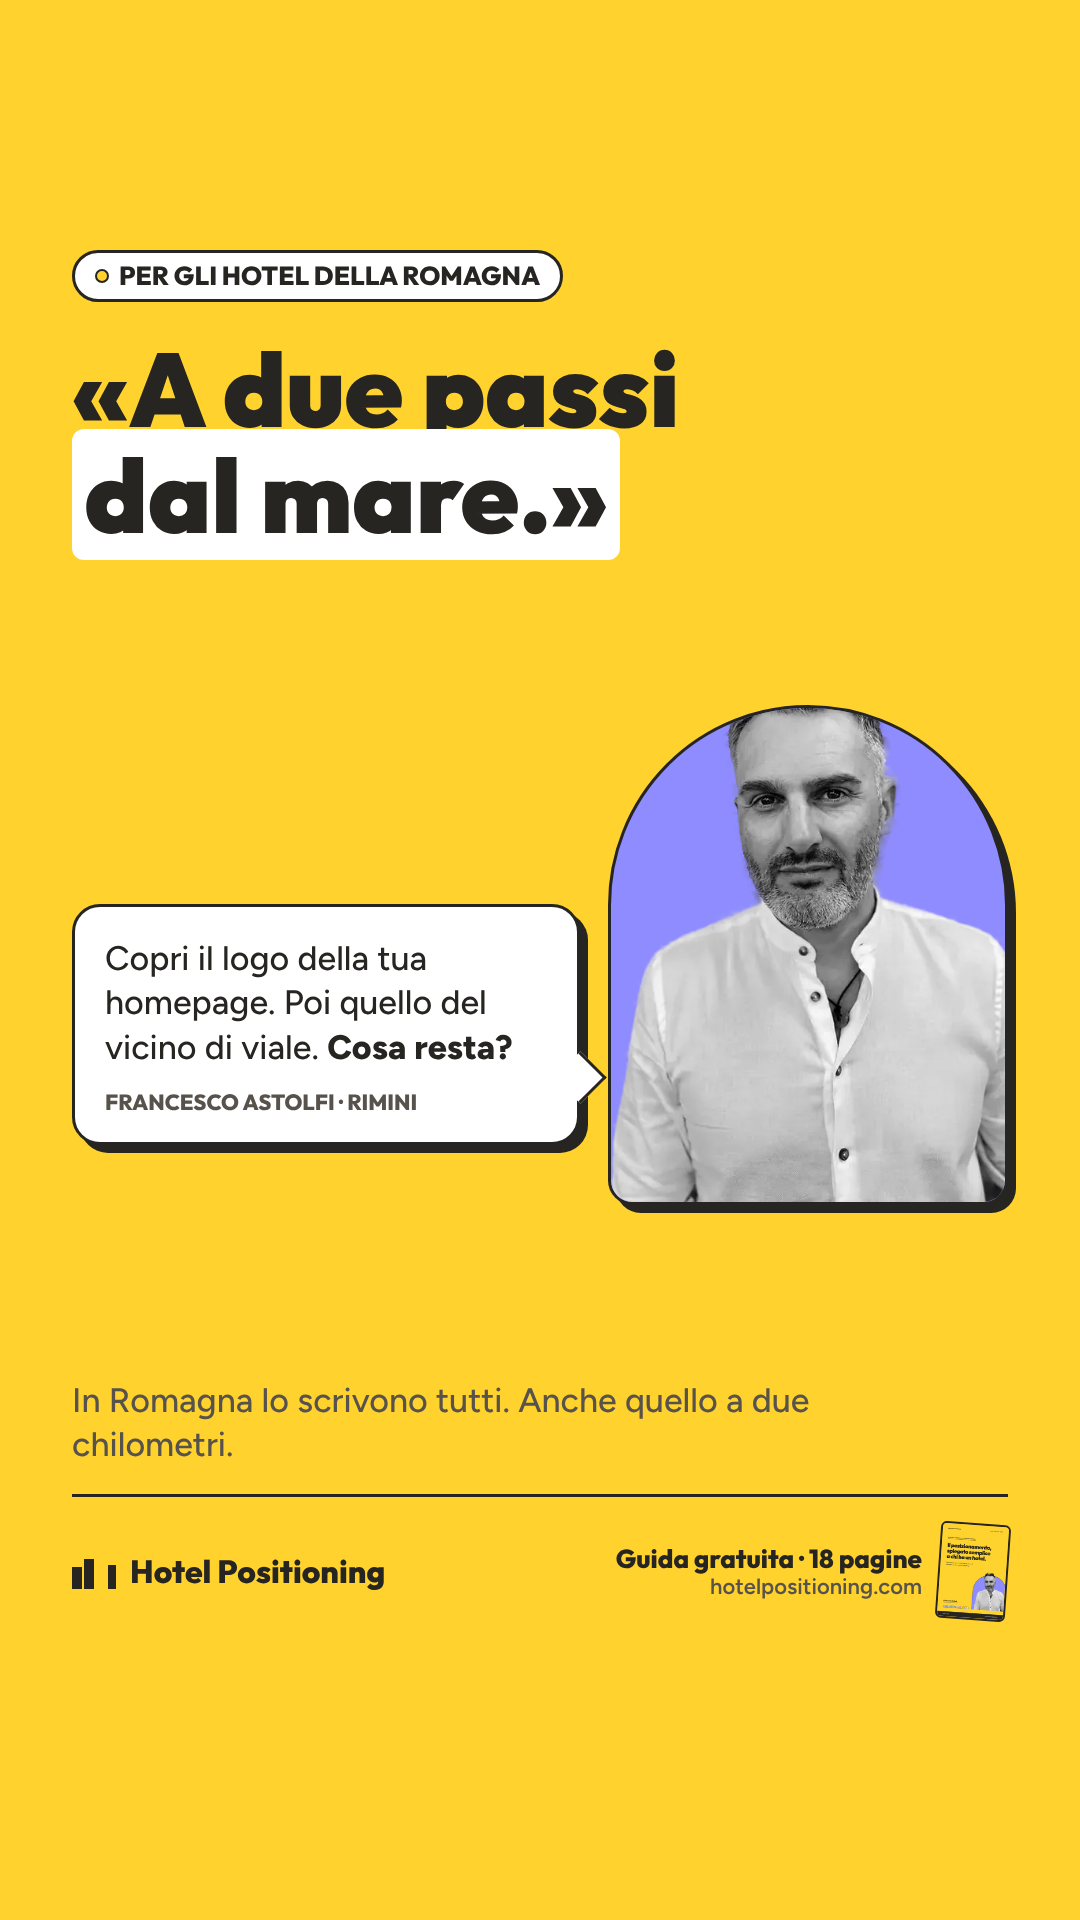
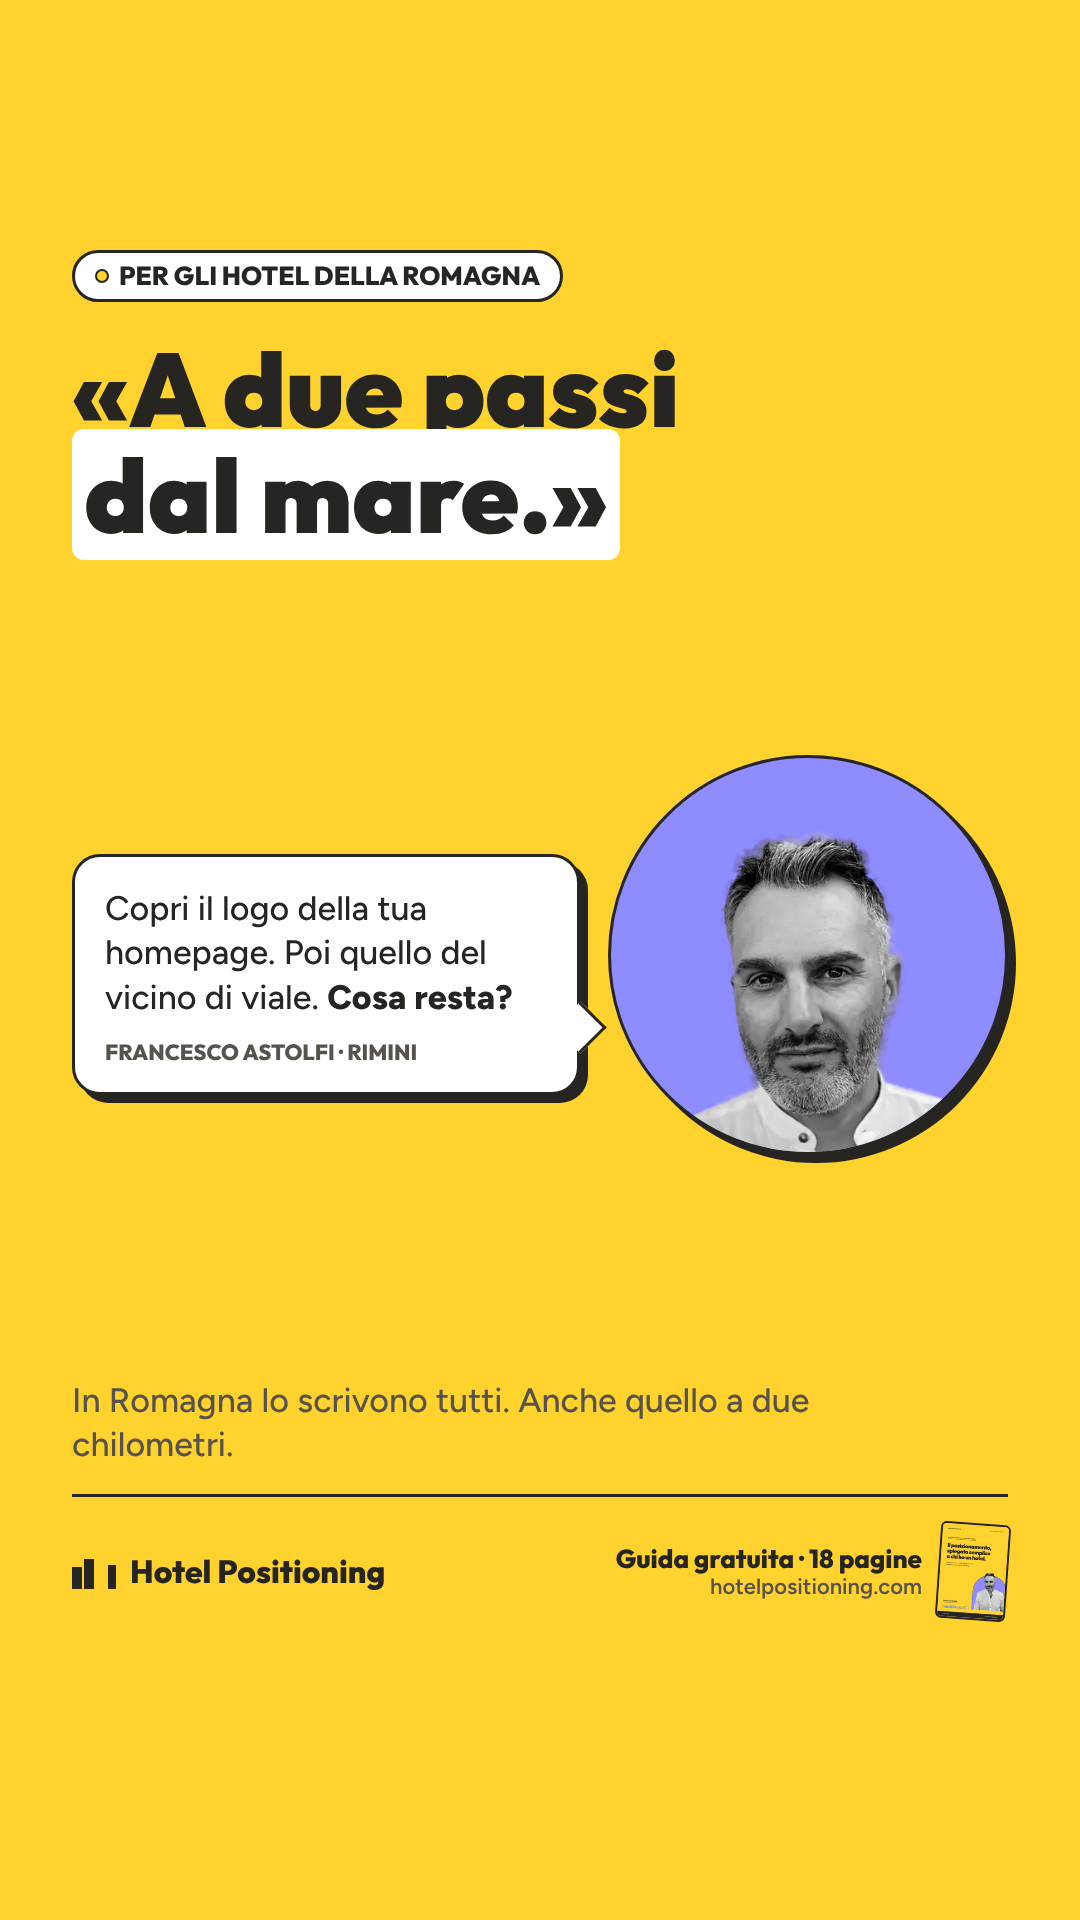
Annunci Romagna: foto di Francesco inquadrata meglio (cerchio con spazio sopra la testa, arco di R8 senza tagli)
Claude-Session: https://claude.ai/code/session_0143iuYkSKfNX3NX9JmduveJ

Changed region(s): [[0.0611, 0.3438, 0.9472, 0.6562]]

diff --git a/materiali/ads-guida-romagna/genera_ads.py b/materiali/ads-guida-romagna/genera_ads.py
@@ -107,13 +107,13 @@ h1 mark{background:#ffd22e;color:#262521;border-radius:12px;padding:0 .12em;box-
 .note{margin-top:18px;font:italic 500 21px Figtree;color:#6b665d}
 .fr{display:grid;grid-template-columns:420px 1fr;gap:30px;align-items:end}
 .arch{height:520px;border:3px solid INK;border-radius:210px 210px 26px 26px;background:#8f8cff;overflow:hidden;position:relative;box-shadow:8px 8px 0 INK}
-.arch img{position:absolute;bottom:0;left:50%;width:112%;transform:translateX(-50%)}
+.arch img{position:absolute;top:6%;left:50%;width:118%;transform:translateX(-50%)}
 .pr2{display:grid;grid-template-columns:1fr 400px;gap:28px;align-items:end}
 .bub{position:relative;background:#fff;border:3px solid INK;border-radius:28px;padding:30px 30px 26px;box-shadow:8px 8px 0 INK;margin-bottom:60px;color:#262521}
 .bub:after{content:"";position:absolute;right:-22px;bottom:46px;width:34px;height:34px;background:#fff;border-right:3px solid INK;border-top:3px solid INK;transform:rotate(45deg)}
 .bub p{font:500 34px/1.3 Figtree}.bub b{font-weight:800}
 .bub span{display:block;margin-top:18px;font:800 22px Outfit;text-transform:uppercase;color:#57534c}
-.a2{height:500px}
+.a2{height:400px;border-radius:50%}
 .st{display:grid;gap:16px}.st div{border:3px solid INK;border-radius:20px;padding:18px 20px;box-shadow:5px 5px 0 INK}
 .st b{display:block;font:900 42px/1 Outfit}.st span{display:block;margin-top:6px;font:600 21px Figtree;color:#57534c}
 '''
